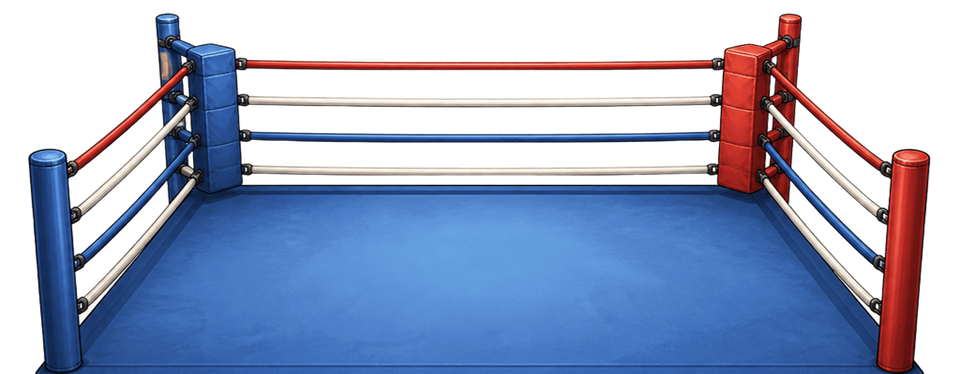
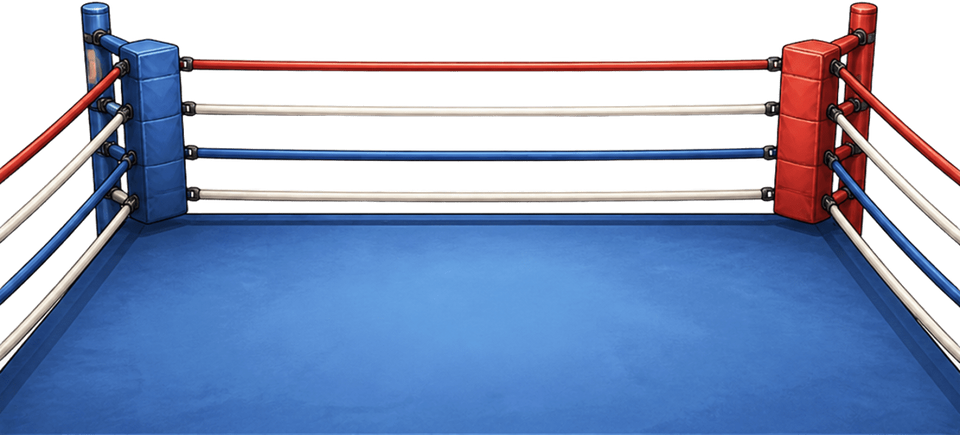
feat: リング (リング_カット2) + サンドバッグ (サンドバッグ_カット) 画像を差し替え
- ring: 1174×532 (aspect 2.21) → 960×435 にリサイズ + 最適化 (438KB)
- bag: 394×1195 (aspect 0.33, 縦長) → 320×971 にリサイズ + 最適化 (307KB)
  両方とも提供時点で透過済み (palette mode)、RGBA 変換のみ
- bag のアスペクトが 1:1 → 1:3 縦長に変わったため、
  CSS 変数を --bag-size 単一から --bag-h + --bag-w (320/971 比) に
  分割し、アンカーの width/height/margin もそれぞれに対応

diff --git a/src/styles/globals.css b/src/styles/globals.css
@@ -239,7 +239,8 @@ textarea {
 /* --- Stage ------------------------------------------------------------- */
 
 .stage {
-  --bag-size: clamp(220px, 50%, 380px);
+  --bag-h: clamp(280px, 70%, 460px);
+  --bag-w: calc(var(--bag-h) * 320 / 971);
   position: relative;
   background:
     radial-gradient(
@@ -344,10 +345,10 @@ textarea {
   position: absolute;
   top: 50%;
   left: 50%;
-  width: var(--bag-size);
-  height: var(--bag-size);
-  margin-top: calc(var(--bag-size) / -2);
-  margin-left: calc(var(--bag-size) / -2);
+  width: var(--bag-w);
+  height: var(--bag-h);
+  margin-top: calc(var(--bag-h) / -2);
+  margin-left: calc(var(--bag-w) / -2);
   z-index: 3;
   border-radius: 18px;
   -webkit-tap-highlight-color: transparent;
